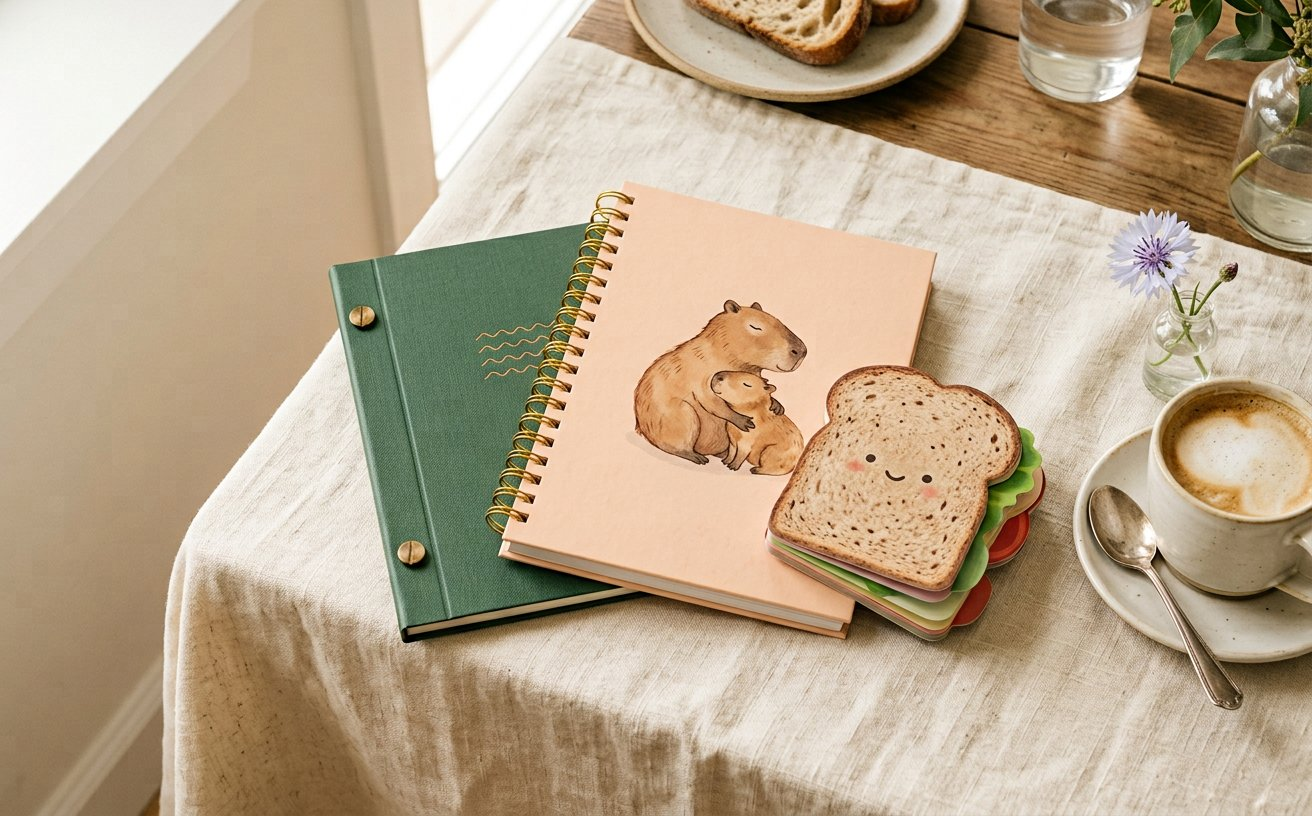
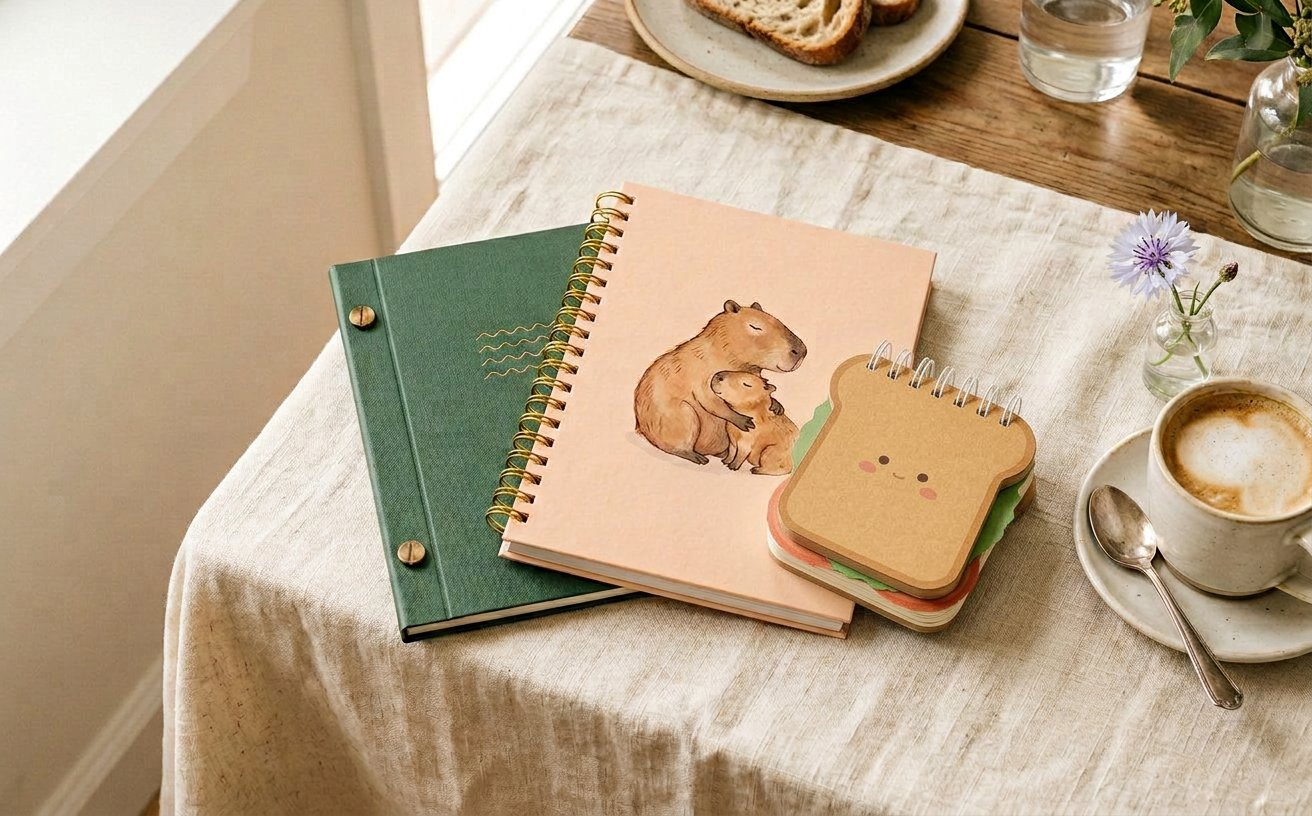
Refine sandwich planner and automate story and journal interactions; add Pages workflow

diff --git a/index.html b/index.html
@@ -9,10 +9,10 @@
 <article class="story-card story-card-reset reveal"><a href="#reset" class="story-photo"><img src="assets/reset-screwpost.jpg" alt="Thin forest-green 30-page refillable journal with two brass screw posts" loading="lazy"><span>01 / MAKE SPACE FOR YOUR MIND</span></a><div class="story-text"><div class="story-detail"><span>30 PAGES</span><span>SCREW-POST REFILLABLE</span></div><h3>Make room<br/>to <em>think again.</em></h3><p>Not another year-long promise. A beautiful little place to put your thoughts, one manageable month at a time.</p><a class="story-link" href="#reset">Meet the 30-day reset <span>↗</span></a></div></article>
 <article class="story-card story-card-parent reveal"><a href="#parents" class="story-photo"><img src="assets/parent-collection.jpg" alt="Four illustrated journals proposed for new parents" loading="lazy"><span>02 / MAKE SPACE FOR THE FIRSTS</span></a><div class="story-text"><div class="story-detail"><span>FOR NEW PARENTS</span><span>MADE TO REMEMBER</span></div><h3>Hold onto<br/><em>every little first.</em></h3><p>Because the tiny moments become the big memories. Meet a keepsake collection imagined for the beautiful beginnings of parenthood.</p><a class="story-link" href="#parents">Meet little beginnings <span>↗</span></a></div></article>
 <article class="story-card story-card-breakfast reveal"><a href="#breakfast" class="story-photo"><img src="assets/product-breakfast.jpg" alt="Sandwich-shaped breakfast planner beside coffee" loading="lazy"><span>03 / MAKE SPACE FOR THE MORNING</span></a><div class="story-text"><div class="story-detail"><span>YOUR FIRST SIP</span><span>YOUR TOP THREE</span></div><h3>Start the day<br/><em>with a smile.</em></h3><p>Your first sip. Your top three. A breakfast-shaped little reminder that planning can have personality.</p><a class="story-link" href="#breakfast">Meet the breakfast idea <span>↗</span></a></div></article>
-</div><div class="story-scroll-hint">SCROLL TO EXPLORE ALL THREE <span>→</span></div></section>
-<section class="reset-section" id="reset"><div class="reset-photo reveal"><img src="assets/reset-refill-lifestyle.jpg" alt="Hands inserting fresh 30-page refill sheets into a slim screw-post journal" loading="lazy"><span class="image-corner-tag">THE 30-DAY RESET / CONCEPT 01</span></div><div class="reset-content reveal"><span class="kicker">02 / FOR THE OVERTHINKERS, THE SCROLLERS, THE START-AGAINERS</span><div class="orbit-badge">30<br/><small>DAYS</small></div><h2>A clearer head.<br/><em>One page at a time.</em></h2><p>For the days when your head has 27 tabs open. A slim, 30-page monthly journal with a reusable screw-post cover: write through the month, add a fresh set of pages, and keep the habit without buying another cover. Minimal by design. Quirky in one small line that finally straightens out.</p><div class="reset-benefits"><span><b>01</b> Just 30 pages to begin</span><span><b>02</b> Refill through brass screw posts</span><span><b>03</b> Keep the cover, keep going</span></div><button class="btn btn-ink" data-show-book="reset">Flip through the planner <svg><use href="#arrow"/></svg></button><p class="refill-pricing">ILLUSTRATIVE PRICING &nbsp;·&nbsp; Reusable starter ₹599 &nbsp; / &nbsp; 30-page refill ₹149</p></div></section>
-<section class="flip-section" id="flip"><div class="flip-heading reveal"><span class="kicker">03 / GO ON, TAKE A LOOK INSIDE</span><h2>Made to be <em>opened.</em></h2><p>These are illustrative interactive prototypes. Choose a cover, flip it open, and explore the page ideas inside. The 30-page journal uses a reusable two-post cover.</p></div><div class="flip-tabs" role="tablist" aria-label="Choose a journal"><button class="flip-tab active" id="tabReset" role="tab" aria-selected="true" data-book="reset">The 30-day reset <span>↗</span></button><button class="flip-tab" id="tabParent" role="tab" aria-selected="false" data-book="parent">Little beginnings <span>↗</span></button></div><div class="book-zone"><div class="book-backdrop"><span class="book-deco deco-one">✳</span><span class="book-deco deco-two">✦</span><div class="book-shadow"></div><div class="book" id="book" aria-label="Interactive journal preview"><div class="book-base"><div class="page-content" id="pageContent"></div><div class="book-page-edge"></div></div><div class="book-cover" id="bookCover"><div class="cover-face"><img id="coverImage" src="assets/cover-reset.svg" alt="The 30-Day Reset cover: tangled cords turn into flowers"></div><div class="cover-inside"><span>EVNOI ✳</span><p>Begin where you are.</p><small>Every page is a fresh start.</small></div></div></div></div><div class="book-caption"><div><span class="kicker" id="bookLabel">EVNOI / THE 30-DAY RESET</span><h3 id="bookCaption">Turn the page on the noise.</h3><p id="bookDescription">A monthly beginning, whenever you're ready.</p></div><div class="book-buttons"><button id="flipButton" class="btn btn-ink" aria-expanded="false">Flip open <svg><use href="#arrow"/></svg></button><button id="nextPage" class="circle-action" aria-label="Next page" disabled><svg><use href="#arrow"/></svg></button></div></div></div></section>
-<section class="parents-section section-width" id="parents"><div class="parent-heading reveal"><span class="kicker">04 / FOR THE LITTLE FIRSTS</span><h2>Every new beginning<br/>deserves <em>a place to live.</em></h2><p>New parents don't need another perfect routine. They need a lovely way to remember the real, beautiful, wonderfully messy moments.</p></div><div class="parent-editorial reveal"><div class="parent-photo"><img src="assets/parent-collection.jpg" alt="Four proposed EVNOI new-parent journal concepts in pastel peach, apricot and blue" loading="lazy"><span class="image-corner-tag">A NEW PARENT KEEPSAKE COLLECTION / CONCEPT</span></div><div class="parent-details"><div class="parent-doodle">☾ <span>✳</span></div><span class="kicker">MEET LITTLE BEGINNINGS</span><h3>From “hello”<br/>to <em>look how far<br/>we've come.</em></h3><p>Four illustrative directions for the first chapter together. A gift-worthy collection built around milestones that happen all year—not just in January.</p><ul><li><span>01</span> New Arrival <span>↗</span></li><li><span>02</span> Growth Log <span>↗</span></li><li><span>03</span> Moments We Love <span>↗</span></li><li><span>04</span> Family Adventures <span>↗</span></li></ul><button class="text-cta" data-show-book="parent">Flip through the keepsake <span>↗</span></button></div></div></section>
+</div><div class="story-scroll-hint"><span id="storyPosition">01 / 03</span> &nbsp; AUTO-ADVANCING STORIES <span>↗</span></div></section>
+<section class="reset-section" id="reset"><div class="reset-photo reveal"><img src="assets/reset-refill-lifestyle.jpg" alt="Hands inserting fresh 30-page refill sheets into a slim screw-post journal" loading="lazy"><span class="image-corner-tag">THE 30-DAY RESET / CONCEPT 01</span></div><div class="reset-content reveal"><span class="kicker">02 / FOR THE OVERTHINKERS, THE SCROLLERS, THE START-AGAINERS</span><div class="orbit-badge">30<br/><small>DAYS</small></div><h2>A clearer head.<br/><em>One page at a time.</em></h2><p>For the days when your head has 27 tabs open. A slim, 30-page monthly journal with a reusable screw-post cover: write through the month, add a fresh set of pages, and keep the habit without buying another cover. Minimal by design. Quirky in one small line that finally straightens out.</p><div class="reset-benefits"><span><b>01</b> Just 30 pages to begin</span><span><b>02</b> Refill through brass screw posts</span><span><b>03</b> Keep the cover, keep going</span></div><button class="btn btn-ink" data-show-book="reset">Scroll through the planner <svg><use href="#arrow"/></svg></button><p class="refill-pricing">ILLUSTRATIVE PRICING &nbsp;·&nbsp; Reusable starter ₹599 &nbsp; / &nbsp; 30-page refill ₹149</p></div></section>
+<section class="flip-section" id="flip"><div class="flip-heading reveal"><span class="kicker">03 / GO ON, TAKE A LOOK INSIDE</span><h2>Made to be <em>opened.</em></h2><p>These are illustrative prototypes. Choose a cover, then scroll: the journal opens and its pages turn with you. The 30-page journal has a reusable two-post cover.</p></div><div class="flip-tabs" role="tablist" aria-label="Choose a journal"><button class="flip-tab active" id="tabReset" role="tab" aria-selected="true" data-book="reset">The 30-day reset <span>↗</span></button><button class="flip-tab" id="tabParent" role="tab" aria-selected="false" data-book="parent">Little beginnings <span>↗</span></button></div><div class="book-zone"><div class="book-backdrop"><span class="book-deco deco-one">✳</span><span class="book-deco deco-two">✦</span><div class="book-shadow"></div><div class="book" id="book" aria-label="Interactive journal preview"><div class="book-base"><div class="page-content" id="pageContent"></div><div class="book-page-edge"></div></div><div class="book-cover" id="bookCover"><div class="cover-face"><img id="coverImage" src="assets/cover-reset.svg" alt="The 30-Day Reset minimalist green screw-post cover"></div><div class="cover-inside"><span>EVNOI ✳</span><p>Begin where you are.</p><small>Every page is a fresh start.</small></div></div></div></div><div class="book-caption"><div><span class="kicker" id="bookLabel">EVNOI / THE 30-DAY RESET</span><h3 id="bookCaption">Turn the page on the noise.</h3><p id="bookDescription">A monthly beginning, whenever you're ready.</p></div><div class="scroll-flip-cue"><span>SCROLL TO TURN THE PAGES ↓</span><div class="scroll-flip-track"><span id="bookProgress"></span></div><strong id="bookPageStatus">COVER / 03</strong></div></div></div></section>
+<section class="parents-section section-width" id="parents"><div class="parent-heading reveal"><span class="kicker">04 / FOR THE LITTLE FIRSTS</span><h2>Every new beginning<br/>deserves <em>a place to live.</em></h2><p>New parents don't need another perfect routine. They need a lovely way to remember the real, beautiful, wonderfully messy moments.</p></div><div class="parent-editorial reveal"><div class="parent-photo"><img src="assets/parent-collection.jpg" alt="Four proposed EVNOI new-parent journal concepts in pastel peach, apricot and blue" loading="lazy"><span class="image-corner-tag">A NEW PARENT KEEPSAKE COLLECTION / CONCEPT</span></div><div class="parent-details"><div class="parent-doodle">☾ <span>✳</span></div><span class="kicker">MEET LITTLE BEGINNINGS</span><h3>From “hello”<br/>to <em>look how far<br/>we've come.</em></h3><p>Four illustrative directions for the first chapter together. A gift-worthy collection built around milestones that happen all year—not just in January.</p><ul><li><span>01</span> New Arrival <span>↗</span></li><li><span>02</span> Growth Log <span>↗</span></li><li><span>03</span> Moments We Love <span>↗</span></li><li><span>04</span> Family Adventures <span>↗</span></li></ul><button class="text-cta" data-show-book="parent">Scroll through the keepsake <span>↗</span></button></div></div></section>
 <section class="shop-section" id="shop"><div class="section-width"><div class="shop-heading reveal"><div><span class="kicker">05 / THE EVNOI EDIT</span><h2>Meet your <em>next favourite page.</em></h2></div><p>Ideas for clearer days, warmer memories and a little more personality on your desk.</p></div><div class="filter-row" role="group" aria-label="Filter the edit"><button class="filter active" data-filter="all" aria-pressed="true">All pieces</button><button class="filter" data-filter="reset" aria-pressed="false">For my headspace</button><button class="filter" data-filter="parents" aria-pressed="false">For new parents</button><button class="filter" data-filter="everyday" aria-pressed="false">Everyday joy</button></div><div class="product-grid" id="productGrid"></div><p id="emptyState" class="empty-state" hidden>No matching pieces. Try another search.</p><p class="product-disclaimer">* Illustrative products and prices for an independent case-study concept. No live orders are taken here.</p></div></section>
 <section class="breakfast-section section-width" id="breakfast"><div class="breakfast-copy reveal"><span class="kicker">06 / THE MORNING IDEA</span><div class="breakfast-sun">✳</div><h2>Plan your day<br/>before it <em>plans you.</em></h2><p>A sandwich-shaped little planner for coffee, breakfast and the three things that matter today. Quirky enough to make you reach for it; simple enough to make the ritual stick.</p><div class="ritual-line"><span>YOUR FIRST SIP</span><b>→</b><span>YOUR TOP THREE</span><b>→</b><span>YOUR DAY</span></div><button class="btn btn-ink" id="interestBreakfast">Explore the concept <svg><use href="#arrow"/></svg></button></div><div class="breakfast-photo reveal"><img src="assets/hero-breakfast.jpg" alt="Illustrative sandwich planner beside breakfast and coffee" loading="lazy"><span class="photo-label">THE BREAKFAST PLANNER / PROPOSED CONCEPT</span></div></section>
 <section class="teams-section" id="teams"><div class="section-width teams-layout"><div class="teams-image reveal"><img src="assets/corporate-kit.jpg" alt="Proposed premium employee welcome kit with journals, pen, note card and gift box" loading="lazy"><div class="teams-image-note">A THOUGHTFUL WELCOME, NOT ANOTHER FORGETTABLE FREEBIE.</div></div><div class="teams-content reveal"><span class="kicker">07 / EVNOI FOR TEAMS</span><h2>The kind of<br/>welcome they <em>keep.</em></h2><p>Go beyond the year-end gift. Imagine custom stationery bundles for the moments your people join, grow and feel appreciated—planned with your team, not pulled from a generic hamper shelf.</p><div class="bundle-tabs" role="tablist" aria-label="Corporate bundle ideas"><button class="bundle-tab active" data-bundle="welcome" role="tab" aria-selected="true">01&nbsp; Welcome</button><button class="bundle-tab" data-bundle="reset" role="tab" aria-selected="false">02&nbsp; Team reset</button><button class="bundle-tab" data-bundle="appreciation" role="tab" aria-selected="false">03&nbsp; Appreciation</button></div><div class="bundle-detail" id="bundleDetail"><h3>The Welcome Kit</h3><p>A journal, mini planner, personalised welcome note, bookmark and gift-ready packaging for every new joiner.</p><div class="bundle-tags"><span>ONBOARDING</span><span>CUSTOM INSERTS</span><span>BY QUOTE</span></div></div><a href="https://www.instagram.com/evnoi_/" target="_blank" rel="noopener noreferrer" class="btn btn-light">Talk to EVNOI about teams <svg><use href="#arrow"/></svg></a><small>Concept packages shown; confirm availability directly with EVNOI.</small></div></div></section>

diff --git a/script.js b/script.js
@@ -8,8 +8,22 @@ const products = [
 const state={filter:'all',query:'',bag:{},favorites:new Set(),slide:0,book:'reset',bookOpen:false,page:0};
 const rupees=n=>'₹'+n.toLocaleString('en-IN');
 const rail=$('#storyRail');
-function scrollStories(direction){const card=rail.querySelector('.story-card');if(card)rail.scrollBy({left:direction*(card.getBoundingClientRect().width+18),behavior:'smooth'})}
-$('#storyPrev').addEventListener('click',()=>scrollStories(-1));$('#storyNext').addEventListener('click',()=>scrollStories(1));
+const storyCards=[...rail.querySelectorAll('.story-card')];
+let storyIndex=0,storyVisible=false,storyPausedUntil=0;
+const reduceMotion=window.matchMedia('(prefers-reduced-motion: reduce)');
+function goToStory(index,manual=false){
+  storyIndex=(index+storyCards.length)%storyCards.length;
+  const step=storyCards[0].getBoundingClientRect().width+18;
+  rail.scrollTo({left:step*storyIndex,behavior:reduceMotion.matches?'instant':'smooth'});
+  $('#storyPosition').textContent=String(storyIndex+1).padStart(2,'0')+' / 03';
+  if(manual)storyPausedUntil=Date.now()+8000;
+}
+$('#storyPrev').addEventListener('click',()=>goToStory(storyIndex-1,true));
+$('#storyNext').addEventListener('click',()=>goToStory(storyIndex+1,true));
+rail.addEventListener('pointerdown',()=>{storyPausedUntil=Date.now()+9000},{passive:true});
+rail.addEventListener('focusin',()=>{storyPausedUntil=Date.now()+9000});
+if('IntersectionObserver' in window){new IntersectionObserver(entries=>{storyVisible=entries[0].isIntersecting},{threshold:.35}).observe(rail)}else storyVisible=true;
+setInterval(()=>{if(storyVisible&&!reduceMotion.matches&&!document.hidden&&Date.now()>storyPausedUntil&&!rail.matches(':hover')&&!document.body.classList.contains('locked'))goToStory(storyIndex+1)},4400);
 function renderProducts(){const matched=products.filter(p=>(state.filter==='all'||p.kind.includes(state.filter))&&(p.title+' '+p.category+' '+p.short).toLowerCase().includes(state.query.toLowerCase()));$('#productGrid').innerHTML=matched.map(p=>`<article class="product-card"><div class="product-image-wrap" data-open="${p.id}" role="button" tabindex="0" aria-label="View ${p.title}"><img src="${p.image}" alt="Illustrative ${p.title} product concept" loading="lazy"><span class="product-badge">${p.badge}</span><button class="heart-btn ${state.favorites.has(p.id)?'liked':''}" data-favorite="${p.id}" aria-label="${state.favorites.has(p.id)?'Remove '+p.title+' from':'Save '+p.title+' to'} favorites" aria-pressed="${state.favorites.has(p.id)}"><svg><use href="#heart"/></svg></button><button class="product-quick" data-open="${p.id}">Explore this piece</button></div><div class="product-info"><span class="product-category">${p.category}</span><div class="product-title-line"><h3>${p.title}</h3><span>${rupees(p.price)}*</span></div><p>${p.short}</p><button class="card-action" data-${p.interest?'interest':'add'}="${p.id}">${p.interest?'Explore concept':'Add to demo bag'} ↗</button></div></article>`).join('');$('#emptyState').hidden=matched.length!==0}
 function toast(s){let el=$('#toast');el.textContent=s;el.classList.add('show');clearTimeout(toast.timer);toast.timer=setTimeout(()=>el.classList.remove('show'),3000)}
 function closeOverlays(){['#bagDrawer','#productModal','#interestModal'].forEach(s=>$(s).hidden=true);$('#scrim').hidden=true;document.body.classList.remove('locked')}
@@ -18,14 +32,34 @@ function openProduct(id){let p=products.find(x=>x.id===id);if(!p)return;$('#moda
 function renderBag(){let ids=Object.keys(state.bag),count=ids.reduce((a,id)=>a+state.bag[id],0);$('#bagCount').textContent=count;$('#drawerCount').textContent=`(${count})`;$('#bagItems').innerHTML=ids.length?ids.map(id=>{let p=products.find(x=>x.id===id);return `<div class="bag-item"><img src="${p.image}" alt=""><div><strong>${p.title}</strong><span>${rupees(p.price)}* each</span><div class="qty-control"><button data-qty="${id}" data-delta="-1" aria-label="Decrease ${p.title} quantity">−</button><span>${state.bag[id]}</span><button data-qty="${id}" data-delta="1" aria-label="Increase ${p.title} quantity">+</button></div><button class="remove-item" data-remove="${id}">Remove</button></div></div>`}).join(''):`<div class="empty-bag"><span>✳</span><p>Your bag is a blank page.</p><small>Find a little something that feels like you.</small></div>`;$('#subtotal').textContent=rupees(ids.reduce((a,id)=>a+products.find(x=>x.id===id).price*state.bag[id],0))}
 function addToBag(id){let p=products.find(x=>x.id===id);if(!p)return;if(p.interest){openOverlay('#interestModal');return}state.bag[id]=(state.bag[id]||0)+1;renderBag();openOverlay('#bagDrawer');toast('Added to your demo bag')}
 const bookData={
-  reset:{cover:'assets/cover-reset.svg',alt:'The 30-Day Reset cover: digital cables become flowers',label:'EVNOI / THE 30-DAY RESET',caption:'A little room to think.',description:'30 pages. Two screw posts. Another month when you’re ready.',pages:[{title:'A gentler start',intro:'This month, I want to make more room for…',lines:['Something I can let go of','Something I want to feel','One little thing I’ll begin']},{title:'Today’s top three',intro:'Not everything. Just what matters today.',checks:['One thing for my work','One thing for myself','One thing I can leave for tomorrow']},{title:'A little reflection',intro:'Progress isn’t always a straight line.',lines:['Something that felt good','Something I learned','A small win worth noticing']}]},
+  reset:{cover:'assets/cover-reset.svg',alt:'The 30-Day Reset slim screw-post cover with one squiggle becoming a straight line',label:'EVNOI / THE 30-DAY RESET',caption:'A little room to think.',description:'30 pages. Two screw posts. Another month when you’re ready.',pages:[{title:'A gentler start',intro:'This month, I want to make more room for…',lines:['Something I can let go of','Something I want to feel','One little thing I’ll begin']},{title:'Today’s top three',intro:'Not everything. Just what matters today.',checks:['One thing for my work','One thing for myself','One thing I can leave for tomorrow']},{title:'A little reflection',intro:'Progress isn’t always a straight line.',lines:['Something that felt good','Something I learned','A small win worth noticing']}]},
   parent:{cover:'assets/cover-parent.svg',alt:'Little Beginnings cover: parent cuddling baby on a cloud',label:'EVNOI / LITTLE BEGINNINGS',caption:'Keep all the little firsts.',description:'A home for the moments you’ll want to revisit.',pages:[{title:'Hello, little one',intro:'This is where our story begins.',lines:['The day we met','The first thing I noticed','What I hope you always know']},{title:'Today’s little first',intro:'Every tiny discovery deserves a page.',lines:['Date and place','The moment','How it made us feel']},{title:'A note for later',intro:'The little things I never want to forget.',lines:['Your favourite sound','The way you smile','What our days feel like now']}]}
 };
 function renderPage(){const info=bookData[state.book],page=info.pages[state.page];$('#pageContent').innerHTML=`<span class="page-head">${state.book==='reset'?'THE 30-DAY RESET':'LITTLE BEGINNINGS'} / 0${state.page+1}</span><span class="page-doodle">${state.book==='reset'?'✳':'☾'}</span><h4>${page.title}</h4><p>${page.intro}</p>${(page.lines||[]).map(x=>`<div class="write-line">${x}</div>`).join('')}${(page.checks||[]).map(x=>`<div class="check-label"><span class="check-box"></span>${x}</div>`).join('')}<span class="tiny-date">EVNOI ✳ &nbsp; 0${state.page+1}</span>`}
-function setBook(which){state.book=which;state.page=0;state.bookOpen=false;$('#book').classList.remove('open');$('#coverImage').src=bookData[which].cover;$('#coverImage').alt=bookData[which].alt;$('#bookLabel').textContent=bookData[which].label;$('#bookCaption').textContent=bookData[which].caption;$('#bookDescription').textContent=bookData[which].description;$('#flipButton').innerHTML='Flip open <svg><use href="#arrow"/></svg>';$('#flipButton').setAttribute('aria-expanded','false');$('#nextPage').disabled=true;document.querySelectorAll('.flip-tab').forEach(b=>{let active=b.dataset.book===which;b.classList.toggle('active',active);b.setAttribute('aria-selected',String(active))});renderPage()}
-function toggleBook(){state.bookOpen=!state.bookOpen;$('#book').classList.toggle('open',state.bookOpen);$('#flipButton').innerHTML=(state.bookOpen?'Close cover':'Flip open')+' <svg><use href="#arrow"/></svg>';$('#flipButton').setAttribute('aria-expanded',String(state.bookOpen));$('#nextPage').disabled=!state.bookOpen}
-function nextPage(){if(!state.bookOpen)return;state.page=(state.page+1)%bookData[state.book].pages.length;$('#pageContent').classList.remove('turning');void $('#pageContent').offsetWidth;$('#pageContent').classList.add('turning');renderPage()}
-document.querySelectorAll('.flip-tab').forEach(btn=>btn.addEventListener('click',()=>setBook(btn.dataset.book)));$('#flipButton').addEventListener('click',toggleBook);$('#book').addEventListener('click',toggleBook);$('#book').setAttribute('tabindex','0');$('#book').setAttribute('role','button');$('#book').addEventListener('keydown',e=>{if(e.key==='Enter'||e.key===' '){e.preventDefault();toggleBook()}});$('#nextPage').addEventListener('click',nextPage);document.querySelectorAll('[data-show-book]').forEach(btn=>btn.addEventListener('click',()=>{setBook(btn.dataset.showBook);$('#flip').scrollIntoView({behavior:'smooth'});setTimeout(()=>{if(!state.bookOpen)toggleBook()},650)}));
+function setBook(which){
+ state.book=which;state.page=0;state.bookOpen=false;$('#book').classList.remove('open');
+ $('#coverImage').src=bookData[which].cover;$('#coverImage').alt=bookData[which].alt;
+ $('#bookLabel').textContent=bookData[which].label;$('#bookCaption').textContent=bookData[which].caption;
+ $('#bookDescription').textContent=bookData[which].description;
+ document.querySelectorAll('.flip-tab').forEach(b=>{let active=b.dataset.book===which;b.classList.toggle('active',active);b.setAttribute('aria-selected',String(active))});
+ renderPage();syncBookOnScroll();
+}
+const clamp=(n,min,max)=>Math.max(min,Math.min(max,n));
+function syncBookOnScroll(){
+ const rect=$('#flip').getBoundingClientRect(), h=window.innerHeight;
+ const progress=clamp((h*.57-rect.top)/(rect.height-h*.46),0,1);
+ const shouldOpen=progress>.16;
+ if(shouldOpen!==state.bookOpen){state.bookOpen=shouldOpen;$('#book').classList.toggle('open',shouldOpen)}
+ const newPage=progress<.41?0:progress<.69?1:2;
+ if(newPage!==state.page){state.page=newPage;$('#pageContent').classList.remove('turning');void $('#pageContent').offsetWidth;$('#pageContent').classList.add('turning');renderPage()}
+ $('#bookProgress').style.width=Math.round(progress*100)+'%';
+ $('#bookPageStatus').textContent=shouldOpen?String(state.page+1).padStart(2,'0')+' / 03':'COVER / 03';
+}
+let flipPending=false;
+window.addEventListener('scroll',()=>{if(!flipPending){flipPending=true;requestAnimationFrame(()=>{syncBookOnScroll();flipPending=false})}},{passive:true});
+window.addEventListener('resize',syncBookOnScroll);
+document.querySelectorAll('.flip-tab').forEach(btn=>btn.addEventListener('click',()=>setBook(btn.dataset.book)));
+document.querySelectorAll('[data-show-book]').forEach(btn=>btn.addEventListener('click',()=>{setBook(btn.dataset.showBook);$('#flip').scrollIntoView({behavior:reduceMotion.matches?'instant':'smooth'})}));
 const bundles={welcome:{title:'The Welcome Kit',description:'A journal, mini planner, personalised welcome note, bookmark and gift-ready packaging for every new joiner.',tags:['ONBOARDING','CUSTOM INSERTS','BY QUOTE']},reset:{title:'The Team Reset Kit',description:'An undated monthly planner, reflection prompts and a team-intentions card for a new project, offsite or fresh quarter.',tags:['OFFSITES','TEAM RITUALS','BY QUOTE']},appreciation:{title:'The Appreciation Kit',description:'An illustration-led journal, a thoughtful card and optional personalisation to celebrate work worth remembering.',tags:['MILESTONES','APPRECIATION','BY QUOTE']}};
 document.querySelectorAll('.bundle-tab').forEach(btn=>btn.addEventListener('click',()=>{const b=bundles[btn.dataset.bundle];document.querySelectorAll('.bundle-tab').forEach(x=>{x.classList.toggle('active',x===btn);x.setAttribute('aria-selected',String(x===btn))});$('#bundleDetail').innerHTML=`<h3>${b.title}</h3><p>${b.description}</p><div class="bundle-tags">${b.tags.map(t=>`<span>${t}</span>`).join('')}</div>`}));
 document.addEventListener('click',e=>{let f=e.target.closest('[data-favorite]');if(f){let id=f.dataset.favorite;state.favorites.has(id)?state.favorites.delete(id):state.favorites.add(id);renderProducts();toast(state.favorites.has(id)?'Saved to favourites':'Removed from favourites');return}let interest=e.target.closest('[data-interest]');if(interest){openOverlay('#interestModal');return}let add=e.target.closest('[data-add]');if(add){addToBag(add.dataset.add);return}let open=e.target.closest('[data-open]');if(open){openProduct(open.dataset.open);return}let qty=e.target.closest('[data-qty]');if(qty){let id=qty.dataset.qty;state.bag[id]+=Number(qty.dataset.delta);if(state.bag[id]<1)delete state.bag[id];renderBag();return}let rem=e.target.closest('[data-remove]');if(rem){delete state.bag[rem.dataset.remove];renderBag()}});

diff --git a/styles.css b/styles.css
@@ -66,3 +66,23 @@
 @media(max-width:1180px){.story-card{flex-basis: min(49vw,520px);min-width:380px}.hero-visual-static img{object-position:54% center}}
 @media(max-width:860px){.hero-visual-static{height:470px}.story-section{padding-top:82px;padding-bottom:76px}.story-card{flex-basis:65vw;min-width:355px}.story-photo{height:290px}}
 @media(max-width:580px){.hero-visual-static{height:380px}.hero-visual-caption{left:10px;right:10px;bottom:10px;padding:10px 11px;font-size:7px;line-height:1.4}.hero-visual-caption span:first-child{max-width:190px}.hero-visual-static img{object-position:56% center}.story-section{padding-top:71px;padding-bottom:67px}.story-section-top{align-items:end}.story-section-top h2{font-size:44px}.story-section-top p{font-size:11px}.story-arrows button{width:36px;height:36px}.story-arrows{gap:4px}.story-card{flex-basis:87vw;min-width:0}.story-photo{height:250px}.story-text{min-height:290px;padding:21px 19px 23px}.story-text h3{font-size:39px}.story-text p{font-size:12px}.story-detail{font-size:8px}.story-scroll-hint{font-size:8px}}
+/* Auto-advancing story rail: hide the mouse-wheel-looking track, keep touch and arrow access. */
+.story-rail{scrollbar-width:none;-ms-overflow-style:none;scroll-padding-inline:0}
+.story-rail::-webkit-scrollbar{display:none}
+.story-rail:after{content:"";flex:0 0 max(0px,calc(100% - min(41vw,555px) - 18px))}
+.story-scroll-hint{display:flex;align-items:center;justify-content:flex-end;gap:7px}
+.story-scroll-hint #storyPosition{font-size:11px;color:#315344}
+/* The page-turn demonstration is controlled by vertical document scroll, not buttons. */
+.flip-section{min-height:1770px;position:relative}
+.book-zone{position:sticky;top:75px}
+.scroll-flip-cue{min-width:188px;text-align:right;align-self:center}
+.scroll-flip-cue>span{display:block;font-size:9px;font-weight:800;letter-spacing:.13em;color:#6f8374}
+.scroll-flip-track{height:3px;background:#d7ded2;margin:13px 0 8px;overflow:hidden}
+.scroll-flip-track>span{display:block;width:0;height:100%;background:#c77962;transition:width .14s linear}
+.scroll-flip-cue>strong{font-size:12px;letter-spacing:.13em;color:#294b3d}
+.cover-face,.cover-inside{-webkit-backface-visibility:hidden;backface-visibility:hidden}
+.book.open .cover-face{opacity:0;transition:opacity .01s linear .55s}
+.book:not(.open) .cover-face{opacity:1;transition:opacity .01s linear .48s}
+@media(max-width:1180px){.story-rail:after{flex-basis:max(0px,calc(100% - min(49vw,520px) - 18px))}}
+@media(max-width:860px){.story-rail:after{flex-basis:max(0px,calc(100% - 65vw - 18px))}.flip-section{min-height:1600px}.book-zone{top:68px}}
+@media(max-width:580px){.story-rail:after{flex-basis:max(0px,calc(100% - 87vw - 18px))}.flip-section{min-height:1500px}.book-zone{top:65px}.scroll-flip-cue{text-align:left;margin-top:12px}.book-caption{display:flex;align-items:flex-end}.book-caption>div:first-child{max-width:67%}.scroll-flip-cue{min-width:85px}.scroll-flip-cue>span{font-size:7px}.scroll-flip-cue>strong{font-size:10px}}

diff --git a/README.md b/README.md
@@ -1,18 +1,21 @@
 # EVNOI — concept storefront
 
-An independent EquiNova case-study website for EVNOI with one consistent brand hero and three scrollable audience stories: clear thinking, new parents, and breakfast planning.
+An independent EquiNova case-study website for EVNOI with one consistent brand hero and three audience stories: clear thinking, new parents and breakfast planning.
 
-## Preview
+## Preview locally
 
 From this directory, run `python3 -m http.server 8080` and open `http://localhost:8080`.
 
+## GitHub Pages publishing
+
+The workflow at `.github/workflows/pages.yml` publishes this static site whenever `main` changes. The repository owner must first enable Pages in **Settings → Pages → Build and deployment → Source: GitHub Actions**. If the workflow ran before Pages was enabled, use **Actions → Publish EVNOI concept site → Run workflow** to run it again. The expected URL for this repository is `https://raunakpandeybiz.github.io/evnoi/`; do not treat it as live until the deployment succeeds.
+
 ## What is interactive
 
-- Scrollable story cards with previous/next arrows, native touch scrolling and scroll snapping
-- 3D open/close journal: choose between the 30-Day Reset and Little Beginnings and turn through three sample pages
-- Selectable corporate collaboration bundles
-- Product search and category filters, detail dialogs, favorites, responsive navigation and a demo bag with quantity controls
-- Motion on scroll and hover, with reduced-motion accessibility support
+- Audience story cards auto-advance while visible; they pause on hover, focus, touch, hidden tabs and reduced-motion settings. Native touch scrolling and arrow controls remain available.
+- Scroll-controlled 3D journal preview: choose the 30-Day Reset or Little Beginnings, then move down the page to open the cover and advance through three spreads. Scrolling back reverses it.
+- Three selectable corporate collaboration bundles
+- Product search and filters, detail dialogs, favorites, responsive navigation and a demo bag
 
 ## Product concept
 
